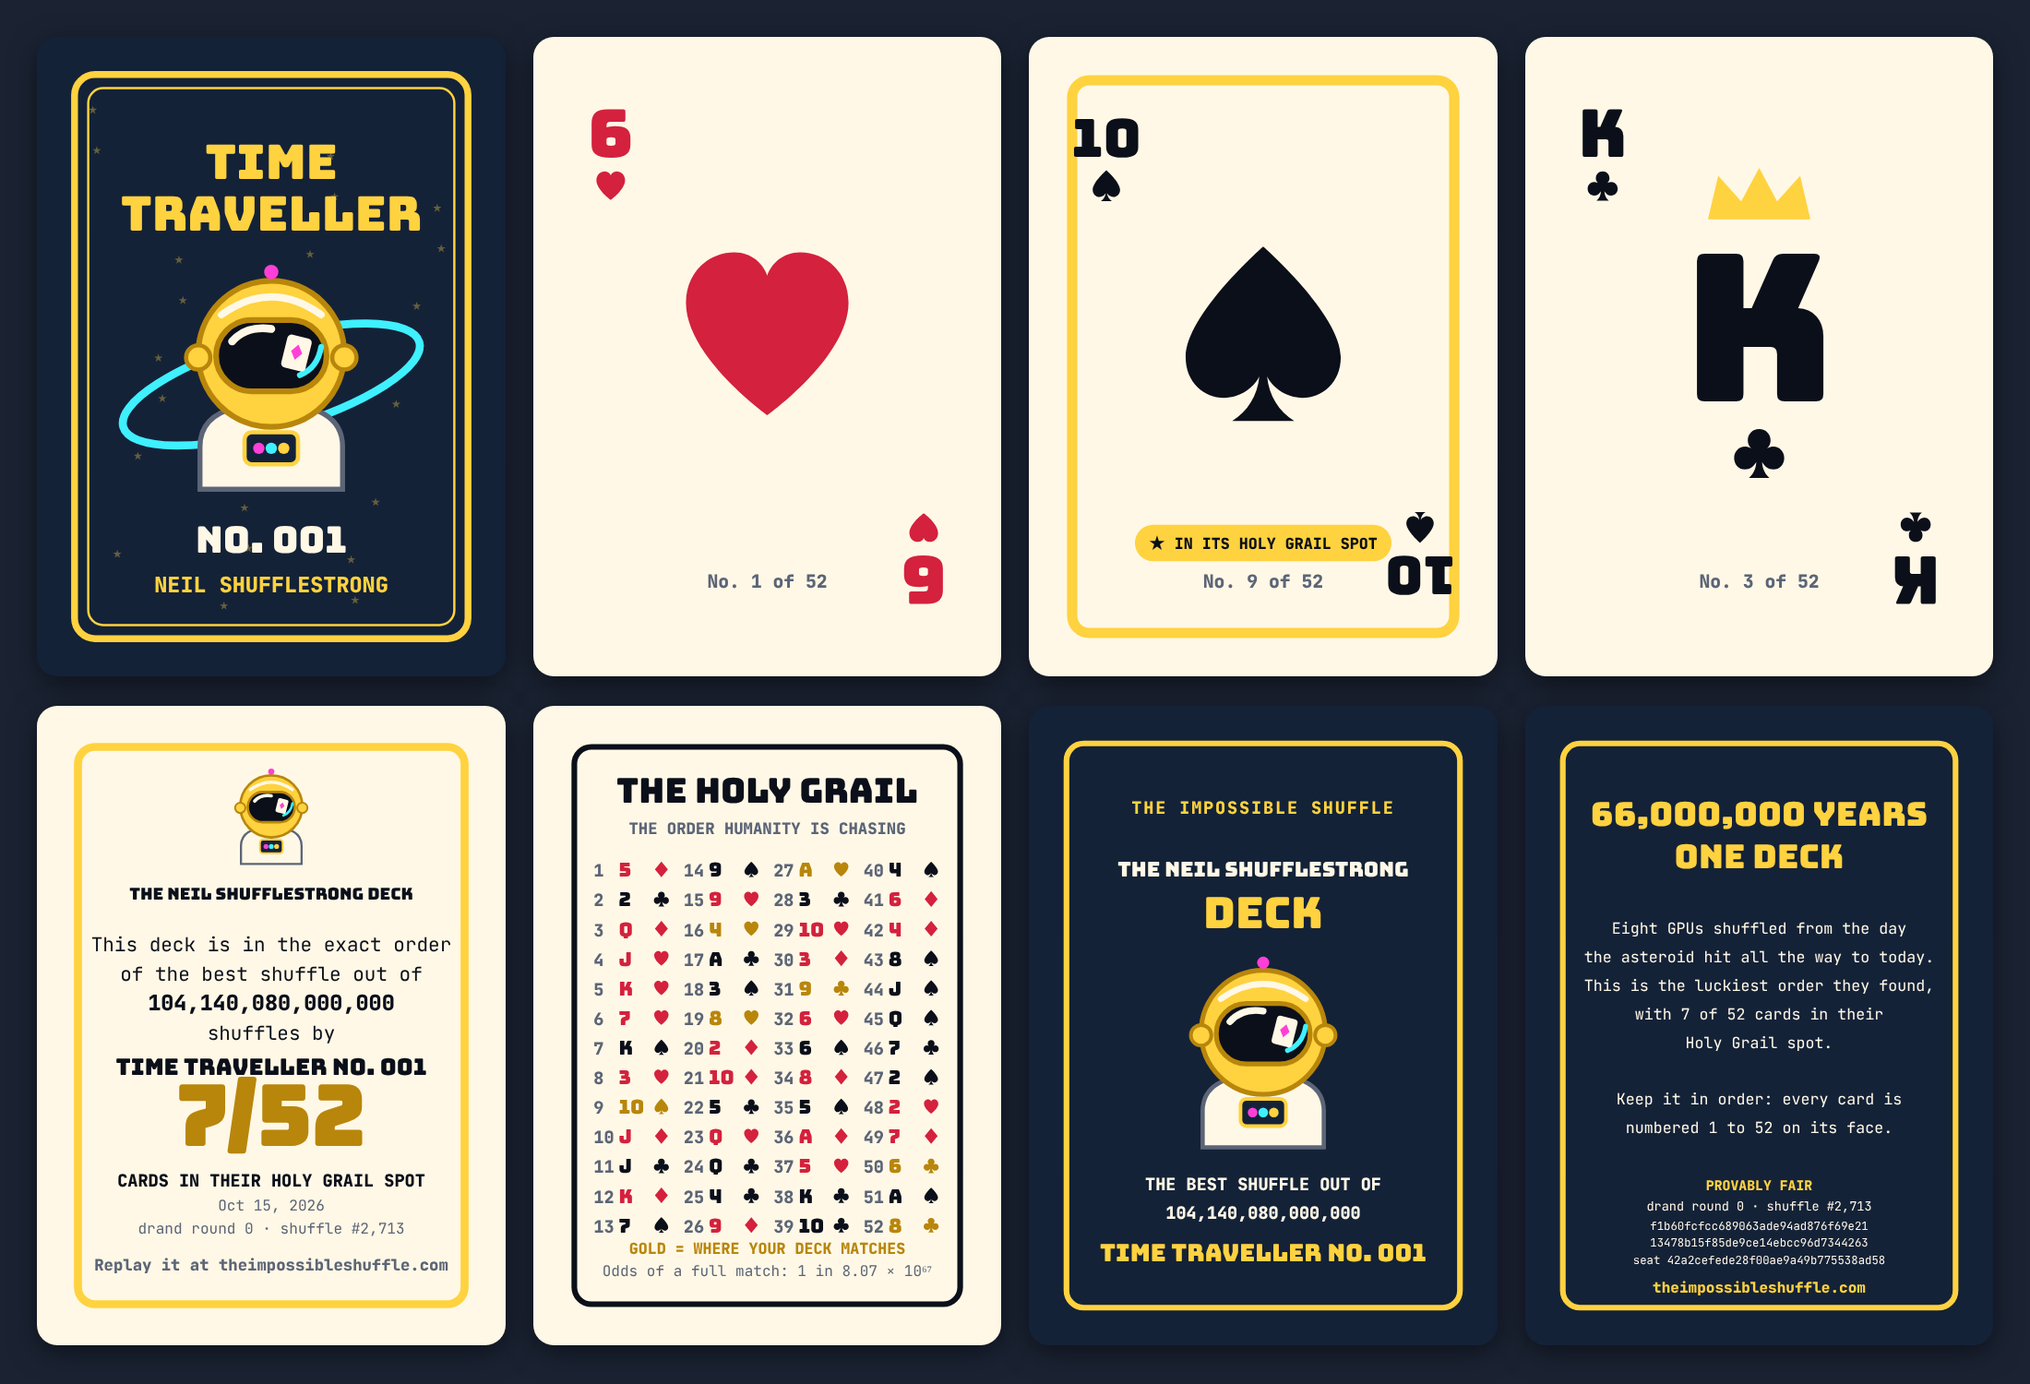
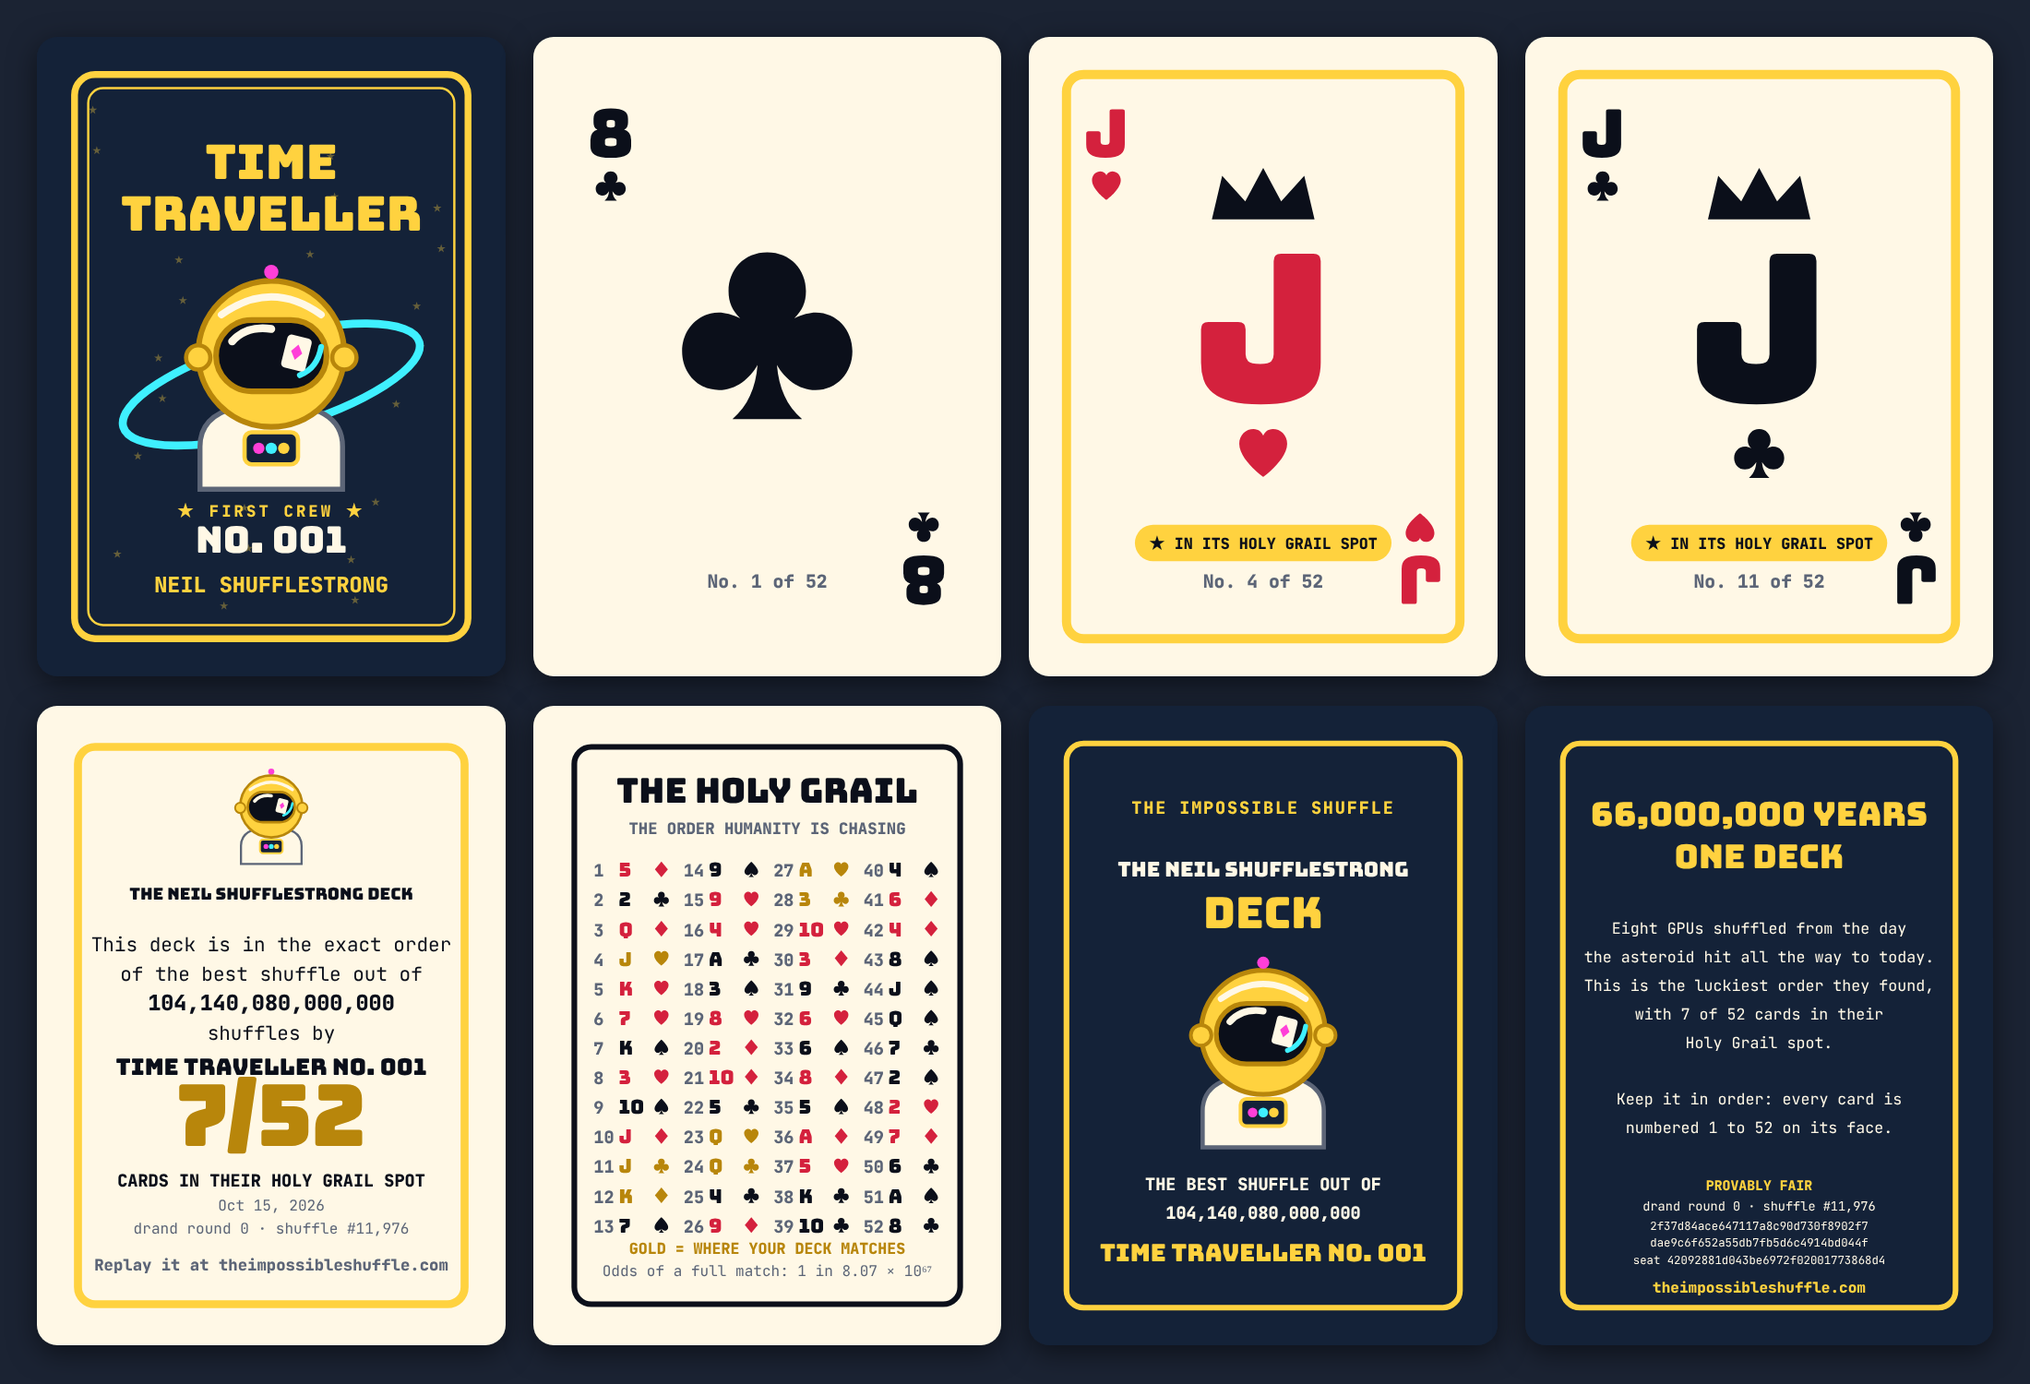
Numbered Time Traveller seats and a First Crew; the station keeps going in a background tab
- Every Time Traveller gets a number in boarding order, shown on the board and the deck back.
  The card shows the next number to board and the First Crew seats (No. 001-010) still open.
- The station's workers keep shuffling while the tab is in the background: the tab title shows
  the progress, an opt-in notification says when the shift is done, and the screen catches up
  when the tab comes back.

Claude-Session: https://claude.ai/code/session_01YJQDRu3Y672xQjHvmeDDE6

diff --git a/index.html b/index.html
@@ -551,7 +551,19 @@
   @media (max-width: 640px) { .tt-panel .tl-log li, .tt-panel .tl-all li { flex-wrap:wrap; column-gap:.4rem; row-gap:0; } .tt-panel .tl-log li .when, .tt-panel .tl-all li .when { flex-basis:100%; min-width:0; } .tt-panel .tl-log li > span:last-child, .tt-panel .tl-all li > span:last-child { flex:1 1 0; min-width:0; } }
   .tt-perks li { margin-top:.45rem; } .tt-perks b { color:#fff7c9; }
   .tt-get { font:800 .75rem "JetBrains Mono", ui-monospace, monospace; letter-spacing:.12em; text-transform:uppercase; color:#ffd23f; }
-  .tt-first { padding:.6rem .8rem; border-radius:12px; border:1px dashed rgba(255,210,63,.6); background:rgba(255,210,63,.08); color:#ffe68a; font-size:.85rem; font-weight:700; }
+  .tt-first { padding:.7rem .85rem; border-radius:12px; border:1px dashed rgba(255,210,63,.6); background:rgba(255,210,63,.08); color:#ffe68a; font-size:.85rem; font-weight:700; }
+  .tt-first .nx { font-size:.95rem; color:#fff7c9; }
+  .tt-first .nx b { color:#ffd23f; white-space:nowrap; }
+  .tt-first .sub { margin-top:.3rem; font-weight:600; color:#e8dca6; font-size:.8rem; line-height:1.45; }
+  .tt-seats { display:flex; flex-wrap:wrap; gap:.3rem; margin-top:.55rem; }
+  .tt-seats svg { width:24px; height:24px; }
+  .tt-seats .open { opacity:.22; filter:grayscale(1); }
+  .tt-first .left { margin-top:.35rem; font:800 .72rem "JetBrains Mono", ui-monospace, monospace; letter-spacing:.06em; color:#ffd23f; text-transform:uppercase; }
+  .imp-chip-btn { padding:.4rem .8rem; border-radius:999px; border:1px solid rgba(165,251,255,.5); background:rgba(0,0,0,.3); color:#a5fbff; font-size:.78rem; font-weight:700; }
+  .imp-chip-btn:hover:not(:disabled) { background:rgba(165,251,255,.12); }
+  .imp-chip-btn:disabled { opacity:.75; cursor:default; }
+  .tt-no { font:800 .7rem "JetBrains Mono", ui-monospace, monospace; color:#ffd23f; letter-spacing:.04em; margin-left:.35rem; white-space:nowrap; }
+  .tt-crew { display:inline-block; margin-left:.35rem; padding:.05rem .4rem; border-radius:999px; background:#ffd23f; color:#1b1300; font:800 .6rem "JetBrains Mono", ui-monospace, monospace; letter-spacing:.08em; vertical-align:middle; white-space:nowrap; }
   .tt-buy { display:block; text-align:center; background:linear-gradient(180deg, #fff7c9, #ffd23f 45%, #c98a0b) !important; color:#1d1300 !important; border-color:#6e4500 !important; text-shadow:none !important; }
   .tt-buy[aria-disabled="true"] { filter:grayscale(.6); opacity:.75; cursor:not-allowed; }
 </style>
@@ -885,8 +897,9 @@
         </dl>
         <div class="mt-4 flex flex-wrap items-center gap-3">
           <button type="button" id="hyperGo" class="shuffle-btn !w-auto !text-sm !py-2 !px-5" aria-pressed="false">🛰 Start your station</button>
-          <p class="text-xs text-[#9fb5a8]">Keep this tab open while you work, binge or sleep. Standing down or closing it keeps the years you haven't shuffled.</p>
+          <button type="button" id="hyperNotify" class="imp-chip-btn" hidden>🔔 Tell me when it's done</button>
         </div>
+        <p class="text-xs text-[#9fb5a8] mt-2">Runs in the background: keep this tab open and carry on in other tabs or apps. The tab's title shows how far your station is. Your computer has to stay awake, though. Standing down or closing the tab keeps the years you haven't shuffled.</p>
         <p id="hyperDoneNote" class="mt-3 text-sm text-[#ffe68a]" hidden></p>
       </div>
 
@@ -3341,7 +3354,7 @@ onmessage = e => {
   postMessage({ n: done, sum, dist, best, bestDeck, bestN, ones, zeroRun, royalBest, last: Array.from(d), lastM, win, winN });
 };`;
 const HYPER_CHUNK = 200000;                     // ≈ 0.3 s of work per message on one core
-const HYPER = { workers: [], running: false, assigned: 0, samples: [], uiTimer: 0, last: null, lastM: 0, failed: false };
+const HYPER = { titleAt: 0, workers: [], running: false, assigned: 0, samples: [], uiTimer: 0, last: null, lastM: 0, failed: false };
 function hyperEnsureWorkers() {
   if (HYPER.workers.length) return true;
   try {
@@ -3356,6 +3369,27 @@ function hyperEnsureWorkers() {
     }
     return true;
   } catch (e) { return false; }
+}
+/* In the background, timers slow down but the workers keep going, so the tab title is updated from their results. */
+const BASE_TITLE = document.title;
+function hyperTitle(force) {
+  const now = Date.now();
+  if (!force && now - HYPER.titleAt < 1000) return;
+  HYPER.titleAt = now;
+  const h = store.hyper, from = Math.min(h.from || 0, h.done), tour = h.bought - from;
+  if (HYPER.running && tour > 0) document.title = `🛰 ${Math.floor(Math.min(1, (h.done - from) / tour) * 100)}% shuffled · ${BASE_TITLE}`;
+  else if (!HYPER.doneTitle) document.title = BASE_TITLE;
+}
+function hyperNotifyUI() {
+  const b = $('#hyperNotify');
+  const ok = 'Notification' in window && window.isSecureContext && Notification.permission !== 'denied' && hyperLeft() > 0;
+  b.hidden = !ok;
+  if (ok) { const on = Notification.permission === 'granted'; b.textContent = on ? "🔔 We'll tell you when it's done" : "🔔 Tell me when it's done"; b.disabled = on; }
+}
+function hyperNotifyDone(text) {
+  if (!document.hidden) return;
+  HYPER.doneTitle = true; document.title = `✅ Shift complete · ${BASE_TITLE}`;
+  try { if ('Notification' in window && Notification.permission === 'granted') new Notification('🎖 Assignment complete', { body: text, icon: 'icon-192.png', tag: 'tis-station' }); } catch (e) { /* not on this browser */ }
 }
 function hyperStart() {
   if (HYPER.running || winOpen || hyperLeft() <= 0) return;
@@ -3375,6 +3409,7 @@ function hyperStart() {
 function hyperPause() {
   if (!HYPER.running) return;
   HYPER.running = false;                        // busy workers finish their current chunk, then stay idle
+  hyperTitle(true);
   renderHyper();
 }
 function hyperAssign(w) {
@@ -3392,6 +3427,7 @@ function hyperResult(w, r) {
   for (let i = 0; i < 6; i++) session.dist[i] += r.dist[i];
   if (!session.firstAt) session.firstAt = performance.now();
   store.allTime += r.n; live.pending += r.n; store.hyper.done += r.n;
+  hyperTitle();
   noteRate(r.n);
   if (r.best > session.best) session.best = r.best;
   if (r.best > session.fairBest) session.fairBest = r.best;
@@ -3427,6 +3463,8 @@ function hyperFinish() {
   saveStore(true);
   track('hyper-done');
   const y = handYears(store.hyper.bought);
+  hyperTitle(true);
+  hyperNotifyDone(`${fmt(Math.round(y))} years of shuffling done. Best match: ${store.hyper.best}/52. Matches: 0.`);
   toast(`🎖 <b>Assignment complete, ${rankName()}.</b> ${fmt(Math.round(y))} years of shuffling done. Best match: ${store.hyper.best}/52. Matches: 0. Mission Control thanks you for your service.`);
   setPose('autopilot', `${fmt(Math.round(y))} years of shuffling and still nothing. I must say, I expected exactly this.`);
   sfx('land', 6);
@@ -3627,6 +3665,7 @@ function renderHyper() {
   chip.hidden = !HYPER.running || HYPER.boxVisible;
   if (!chip.hidden) chip.textContent = `🛰 ${$('#tlYear').textContent} · ${Math.floor(frac * 100)}%`;
   if (!HYPER.running) refreshEtas();
+  hyperNotifyUI();
 }
 
 /* ---------- Cosmetics ---------- */
@@ -3835,6 +3874,12 @@ function initImpatient() {
   renderHyper();
   loadWall();
   $('#hyperGo').addEventListener('click', () => (HYPER.running ? hyperPause() : hyperStart()));
+  $('#hyperNotify').addEventListener('click', async () => { try { await Notification.requestPermission(); } catch (e) { /* older Safari */ } hyperNotifyUI(); track('hyper-notify'); });
+  document.addEventListener('visibilitychange', () => {
+    if (document.hidden) return;
+    if (HYPER.doneTitle) { HYPER.doneTitle = false; document.title = BASE_TITLE; }
+    if (HYPER.running) hyperUI();                // catch the screen up at once
+  });
   $('#apSponsor').addEventListener('click', e => {
     e.preventDefault(); track('autopilot-sponsor-link');
     $('#impatient').scrollIntoView({ behavior: reduceMotion ? 'auto' : 'smooth', block: 'start' });
@@ -4176,7 +4221,7 @@ async function submitMissionName(form) {
 }
 
 /* ---------- Time Travellers ---------- */
-const TT = { years: 66e6, gpus: 8, price: '500', rate: 2.1e10, rows: [], timer: 0 };
+const TT = { count: 0, years: 66e6, gpus: 8, price: '500', rate: 2.1e10, rows: [], timer: 0 };
 TT.N = TT.years * HAND_YEAR;                       // 104 trillion shuffles: from the asteroid to today
 function bigEnglish(n) {
   const unit = (v, w) => `${v < 10 ? v.toFixed(1).replace(/\.0$/, '') : fmt(Math.round(v))} ${w}`;   // 9.6 billion, 104 trillion
@@ -4200,7 +4245,7 @@ function renderTTCard() {
       <p class="text-sm sm:text-base text-[#cfe3d7]">Only a few will ever hold this rank. Eight of the fastest chips on Earth, the ones that train artificial intelligence, carry you back to the day the asteroid wiped out the dinosaurs. From there you shuffle every single year back to today: <b class="text-[#ffe68a]">66 million years of nonstop hand shuffling, in under an hour and a half*</b>. You watch history fly past live, from the first tiny mammals to the moon landing, and your name goes up in gold on the Time Travellers board. Forever.</p>
       <p class="tt-get mt-4">What you get</p>
       <ul class="imp-perks tt-perks mt-1">
-        <li><b>🚀 Your name in gold, forever.</b> First-class seat on the Time Travellers board, golden helmet and all.</li>
+        <li><b>🚀 Your number and name in gold, forever.</b> A Time Traveller number that is never issued again, and a first-class seat on the board, golden helmet and all.</li>
         <li><b>🃏 A deck that exists nowhere else.</b> A real deck of playing cards, printed in the exact order of your best shuffle out of ${bigEnglish(TT.N)}, with your name on the back. Shipped to your door.</li>
         <li><b>📡 Your private mission control.</b> Watch 66 million years of history fly past live, from the asteroid to the moon landing.</li>
         <li><b>👑 Everything a Commander gets.</b> The Royal Professor, the Certificate, the Wall of Hopeless Heroes and every other extra.</li>
@@ -4214,7 +4259,7 @@ function renderTTCard() {
         <div><b>${fmt(Math.round(TT.years / 1e5))}×</b><span>a Commander's entire mission</span></div>
         <div><b>${fmt(Math.round(TT.years / 80 / 1e3) * 1e3)}×</b><span>a lifetime of shuffling by hand</span></div>
       </div>
-      <p id="ttFirst" class="tt-first"${TT.rows.length ? ' hidden' : ''}>🚀 The Time Travellers board is still empty. Whoever boards first is first on it forever.</p>
+      <div id="ttFirst" class="tt-first">${ttFirstHTML()}</div>
       ${url ? `<a class="shuffle-btn tt-buy" href="${url}" target="_blank" rel="noopener" data-imp="traveller">Board the time machine · ${cur}${TT.price}</a>`
         : '<a class="shuffle-btn tt-buy" role="link" aria-disabled="true">Launch window opening soon</a>'}
       <p class="imp-why">Why ${cur}${TT.price}? Eight of the fastest chips on Earth, one deck, no mercy. About ${cur}${(Number(TT.price) / (TT.years / 1e6)).toFixed(2)} per million years of shuffling. A bargain, historically.</p>
@@ -4224,6 +4269,16 @@ function renderTTCard() {
   const buy = box.querySelector('[data-imp="traveller"]');
   if (buy) buy.addEventListener('click', () => track('impatient-traveller'));
 }
+/* Time Traveller numbers: handed out once, in boarding order (as on the merch). The first ten are the First Crew. */
+const TT_CREW = 10;
+const ttNo = n => 'No. ' + String(n).padStart(3, '0');
+function ttFirstHTML() {
+  const k = TT.count || 0, left = Math.max(0, TT_CREW - k);
+  const seats = Array.from({ length: TT_CREW }, (_, i) => `<svg viewBox="0 0 64 64" class="${i < k ? 'taken' : 'open'}" aria-hidden="true"><use href="#ttAstro"/></svg>`).join('');
+  return `<p class="nx">🚀 Next to board: <b>Time Traveller ${ttNo(k + 1)}</b></p>
+    <p class="sub">${k ? '' : 'No. 001 is still unclaimed. '}Every number is issued once, in boarding order, and never again. It goes next to your name on the board and on the back of your deck.${left ? ' The first ten are the First Crew, marked in gold forever.' : ''}</p>
+    ${left ? `<div class="tt-seats" role="img" aria-label="${left} of ${TT_CREW} First Crew seats open">${seats}</div><p class="left">${left} of ${TT_CREW} First Crew seats ${left === TT_CREW ? 'open' : 'left'}</p>` : ''}`;
+}
 async function ttFetch(query) {
   const r = await fetch(`${LIVE_COUNTER.url}/rest/v1/travellers?${query}`, { headers: liveHeaders(), cache: 'no-store' });
   if (!r.ok) throw new Error('HTTP ' + r.status);
@@ -4231,13 +4286,17 @@ async function ttFetch(query) {
 }
 async function ttLoadBoard() {
   if (!live.on) return;
-  try { TT.rows = await ttFetch('select=name,status,attempts,target,best,best_round,best_rand,best_seat,best_n,created_at&status=neq.failed&order=best.desc,attempts.desc,created_at.asc&limit=60'); }
-  catch (e) { TT.rows = []; }
+  try {
+    const all = await ttFetch('select=name,status,attempts,target,best,best_round,best_rand,best_seat,best_n,created_at&status=neq.failed&order=created_at.asc&limit=1000');
+    all.forEach((t, i) => { t.no = i + 1; });    // boarding order
+    TT.count = all.length;
+    TT.rows = all.slice().sort((a, b) => (b.best || 0) - (a.best || 0) || b.attempts - a.attempts || a.no - b.no).slice(0, 60);
+  } catch (e) { TT.rows = []; }
   renderTTBoard();
 }
 function renderTTBoard() {
   const sec = $('#ttSection'), first = $('#ttFirst');
-  if (first) first.hidden = !!TT.rows.length;
+  if (first) first.innerHTML = ttFirstHTML();
   sec.hidden = !TT.rows.length;                     // the board appears with its first Time Traveller; until then the card says so
   if (sec.hidden) return;
   $('#ttBoard').innerHTML = TT.rows.length ? TT.rows.map((t, i) => {
@@ -4246,7 +4305,7 @@ function renderTTBoard() {
     const live_ = t.status === 'running' || t.status === 'boarding';
     return `<div class="tt-row${i === 0 ? ' first' : ''}">
       <svg class="tt-ava" viewBox="0 0 64 64" aria-hidden="true"><use href="#ttAstro"/></svg>
-      <div class="min-w-0 grow"><p class="nm">${escapeHtml(t.name)}</p>
+      <div class="min-w-0 grow"><p class="nm">${escapeHtml(t.name)}${t.no ? `<span class="tt-no">${ttNo(t.no)}</span>` : ''}${t.no && t.no <= TT_CREW ? '<span class="tt-crew">FIRST CREW</span>' : ''}</p>
         <p class="meta">${live_ ? '<span class="tt-live"><span class="live-dot" aria-hidden="true" style="width:7px;height:7px"></span>IN FLIGHT</span> · ' : ''}${bigEnglish(t.attempts)} shuffles · ${years >= 1e6 ? (years / 1e6).toFixed(1) + 'M' : fmt(Math.round(years))} years · ${when}</p></div>
       <div class="text-right"><p class="rk">${i < 3 ? ['🥇', '🥈', '🥉'][i] : '#' + (i + 1)}</p><p class="best">${t.best ? t.best + '/52' : '–'}${t.best && validRec(rec) ? ` <button type="button" class="pf-tick" data-verify='${recAttr(rec)}' title="Provably fair: replay this shuffle" aria-label="Replay ${escapeHtml(t.name)}'s best shuffle">✓</button>` : ''}</p></div>
     </div>`;

diff --git a/merch/time-traveller/designer.html b/merch/time-traveller/designer.html
@@ -313,6 +313,7 @@ function deckBack(d, F) {
     <text x="${CW / 2}" y="340" font-family="Bungee" font-size="84" fill="${GOLD}" text-anchor="middle">TRAVELLER</text>
     <ellipse cx="${CW / 2}" cy="610" rx="270" ry="80" fill="none" stroke="${CYAN}" stroke-width="14" transform="rotate(-16 ${CW / 2} 610)"/>
     ${astro(CW / 2 - 200, 400, 400)}
+    ${d.number <= 10 ? `<text x="${CW / 2}" y="842" font-family="JBM" font-weight="800" font-size="28" fill="${GOLD}" text-anchor="middle" letter-spacing="5">★ FIRST CREW ★</text>` : ''}
     <text x="${CW / 2}" y="905" font-family="Bungee" font-size="64" fill="${CREAM}" text-anchor="middle">No. ${nr(d.number)}</text>
     <text x="${CW / 2}" y="975" font-family="JBM" font-weight="800" font-size="${fitSize(name, 38, 560, 0.62)}" fill="${GOLD}" text-anchor="middle">${esc(name)}</text>`);
 }

diff --git a/merch/time-traveller/README.md b/merch/time-traveller/README.md
@@ -33,7 +33,7 @@ What's in the ZIP (every image 822 × 1122 px: poker size 2.5 × 3.5 in plus 1/8
 | `front-01-…png` to `front-52-…png` | The 52 faces in best-shuffle order. Each says "No. n of 52"; cards in their Holy Grail spot get a gold frame and a "★ In its Holy Grail spot" band |
 | `front-53-joker-certificate.png` | Joker 1: "The NAME deck", their score, Time Traveller number, date and recipe |
 | `front-54-joker-holy-grail.png` | Joker 2: the full Holy Grail order, with the cards their deck matches in gold |
-| `back.png` | One back for all cards: golden astronaut, "Time Traveller", number and name |
+| `back.png` | One back for all cards: golden astronaut, "Time Traveller", number and name (plus "★ First Crew ★" for No. 001–010) |
 | `box-front.png`, `box-back.png` | Tuck box panels |
 | `ORDER.txt` | The order as text, plus the recipe (use it to check the printed deck) |
 
